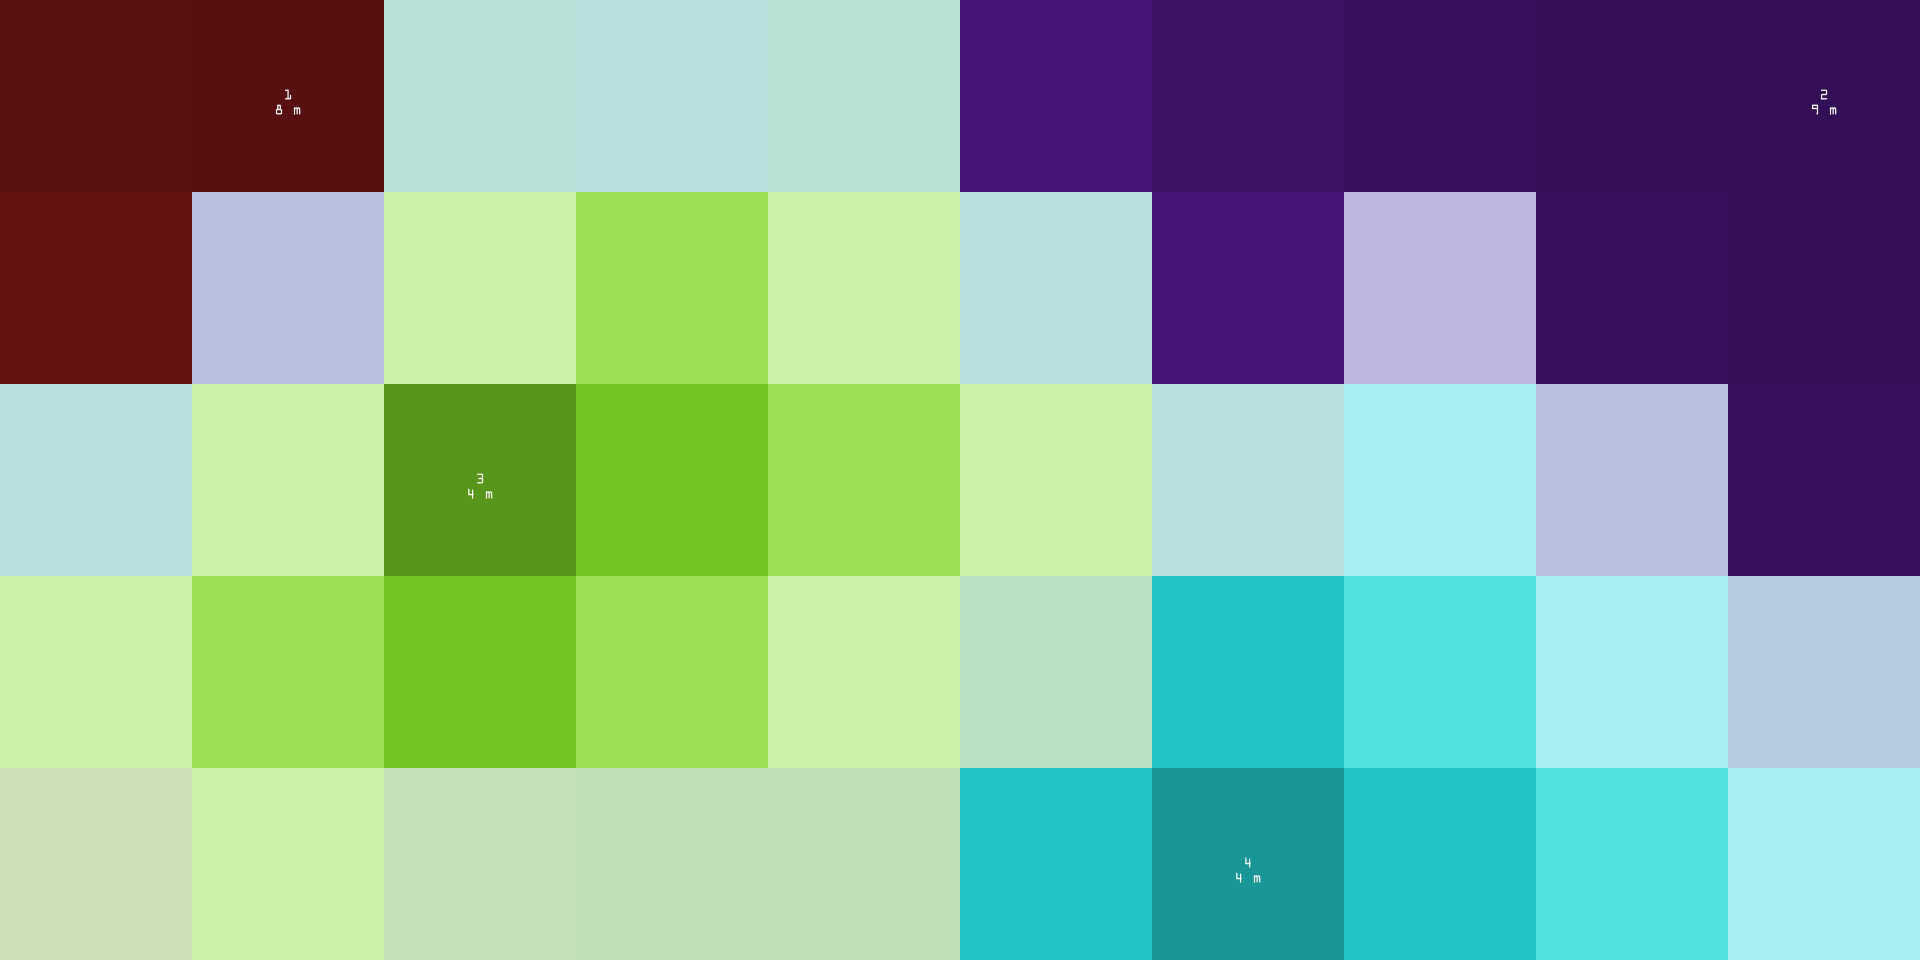
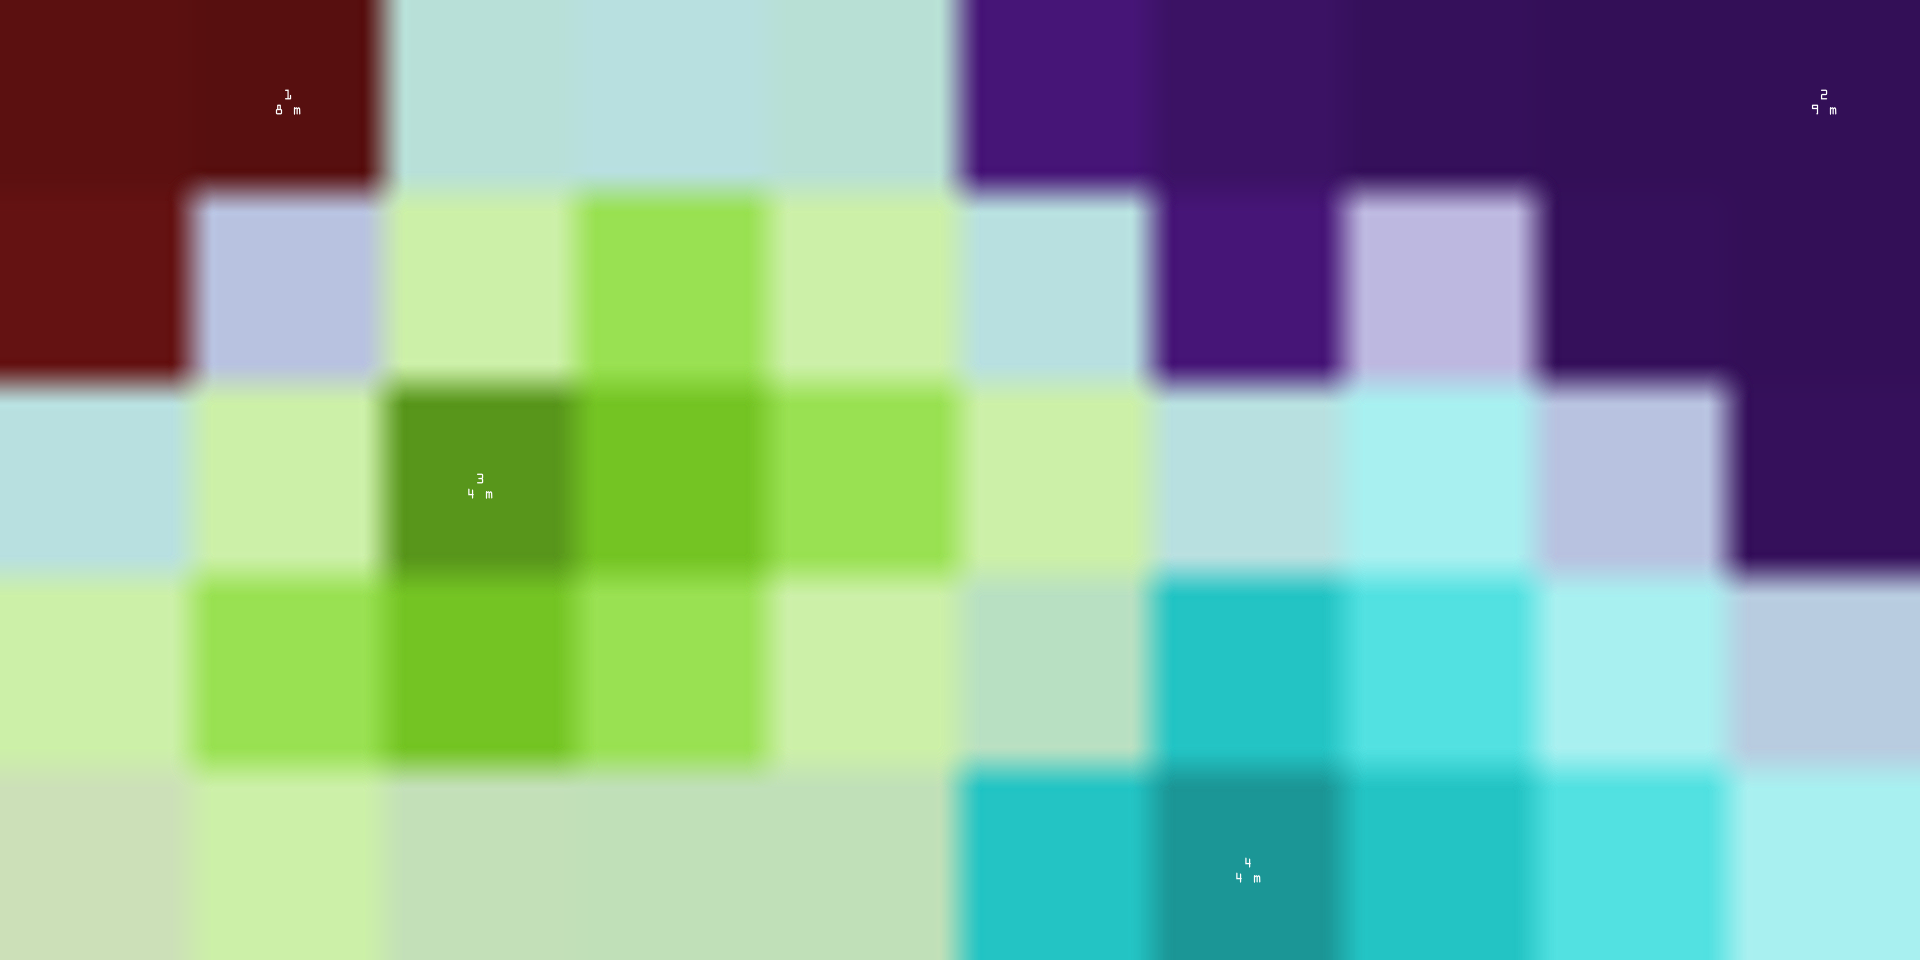
Added some blur/sharpen effects for more fun

diff --git a/day9/Smoke_Flow_Modelling.cs b/day9/Smoke_Flow_Modelling.cs
@@ -199,6 +199,9 @@ namespace day9
                 }
             });
 
+            img.Mutate(x => x.BokehBlur(24, 2, 1));
+            img.Mutate(x => x.GaussianSharpen(4));
+
             var coll = new FontCollection();
             var family = coll.Install(@"c:\windows\fonts\OCRAEXT.TTF");
             var font = family.CreateFont(15, FontStyle.Regular);
